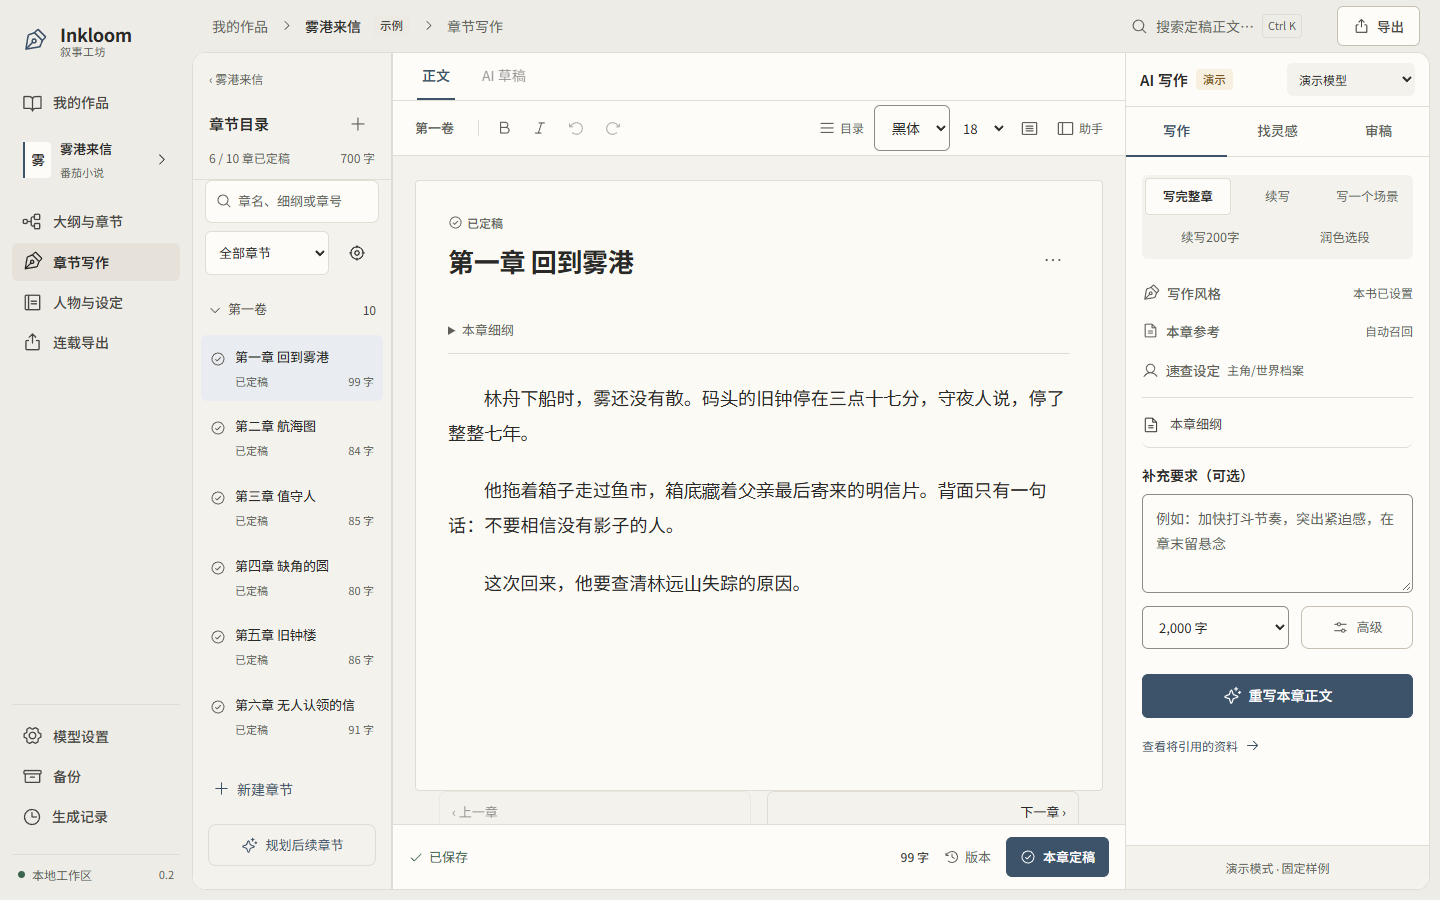
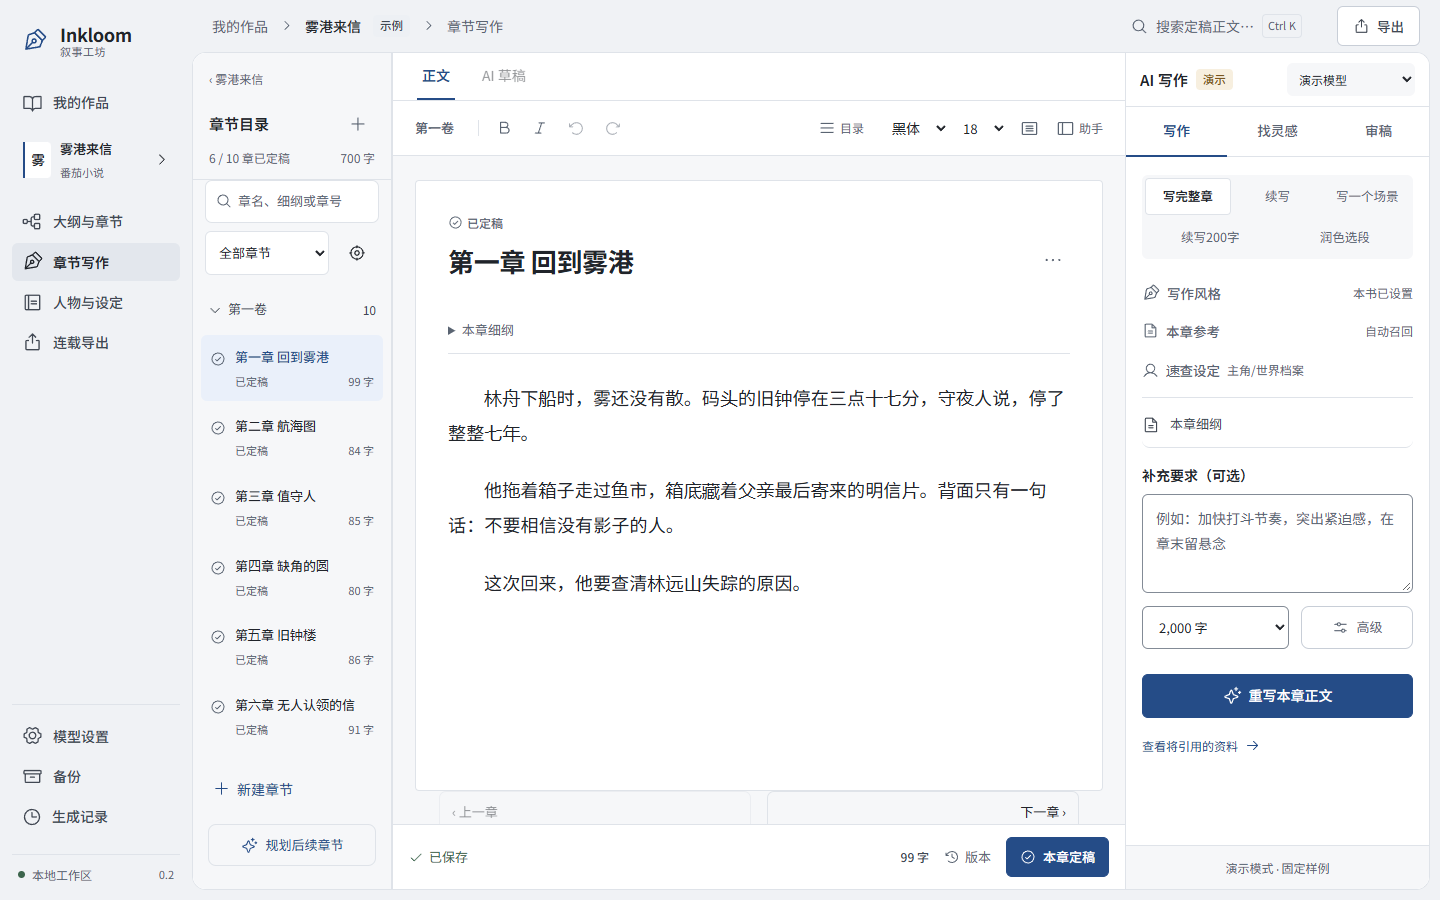
style: 调整 Inkloom 工作台的阅读配色

Changed region(s): [[0.7812, 0.7467, 1.0, 0.8089], [0.6875, 0.9022, 0.7812, 0.9956], [0.1562, 0.3733, 0.2188, 0.4044]]

diff --git a/frontend/src/styles/theme.css b/frontend/src/styles/theme.css
@@ -1,24 +1,24 @@
 :root {
   --font-ui: 'Inkloom UI', -apple-system, BlinkMacSystemFont, 'Segoe UI', 'PingFang SC', 'Hiragino Sans GB', 'Microsoft YaHei UI', 'Microsoft YaHei', sans-serif;
   --font-reading-serif: 'Noto Serif SC', 'Source Han Serif SC', 'Songti SC', 'STSong', 'SimSun', serif;
-  --canvas: #eeece7;
-  --paper: #fdfcf9;
-  --manuscript-paper: #fcfaf5;
-  --surface: #f4f2ed;
-  --hover: #edeae3;
-  --selected: #e6e2da;
-  --line: #e2ddd4;
-  --line-strong: #c7bfb2;
-  --control-line: #8e8b82;
-  --ink: #292927;
-  --ink-secondary: #474642;
-  --muted: #625f58;
+  --canvas: #f0f2f5;
+  --paper: #fff;
+  --manuscript-paper: var(--paper);
+  --surface: #f6f7f9;
+  --hover: #edf0f4;
+  --selected: #e3e7ed;
+  --line: #dfe3e9;
+  --line-strong: #c8ced7;
+  --control-line: #838b96;
+  --ink: #20242a;
+  --ink-secondary: #414853;
+  --muted: #5a6472;
   --muted-light: var(--muted);
-  --accent: #3d5369;
-  --accent-hover: #2e4358;
-  --accent-soft: #e9edf1;
+  --accent: #254c87;
+  --accent-hover: #193b70;
+  --accent-soft: #eaf0fa;
   --on-accent: #fff;
-  --selection: #dbe6ed;
+  --selection: #d9e7fb;
   --success: #3d654d;
   --success-soft: #eaf1e9;
   --success-line: #cddccf;
@@ -28,7 +28,7 @@
   --danger: #9c3f40;
   --danger-soft: #f9eeec;
   --danger-line: #e8c9c4;
-  --overlay: rgb(41 41 39 / 36%);
+  --overlay: rgb(32 36 42 / 36%);
   --radius: 9px;
   --sheet-radius: 14px;
   --card-radius: 8px;

diff --git a/frontend/src/styles/workbench.css b/frontend/src/styles/workbench.css
@@ -494,7 +494,15 @@ input::placeholder, textarea::placeholder {
 .toolbar-label { white-space: nowrap; font-size: 12px; }
 .reading-font { flex: 0 0 76px; }
 .font-size-label { flex: 0 0 54px; }
-.editor-toolbar .reading-font select, .editor-toolbar .font-size-label select { min-height: 44px; width: 100%; }
+.editor-toolbar .reading-font select, .editor-toolbar .font-size-label select {
+  min-height: 44px;
+  width: 100%;
+  border-color: transparent;
+  background: transparent;
+}
+.editor-toolbar .reading-font select:hover, .editor-toolbar .font-size-label select:hover {
+  background: var(--hover);
+}
 .editor-volume {
   font-size: 13px;
   font-weight: 600;
@@ -852,6 +860,7 @@ input::placeholder, textarea::placeholder {
 .chapter-item { padding: 10px 8px; border-radius: 6px; }
 .chapter-item.active { background: var(--accent-soft); }
 .chapter-item-text strong { font-size: 13px; }
+.chapter-item.active .chapter-item-text strong { color: var(--accent); }
 .chapter-item-text small { font-size: 11px; }
 .chapter-state { color: var(--muted); }
 .document-tabs { background: var(--paper); min-height: 44px; }

diff --git a/frontend/index.html b/frontend/index.html
@@ -3,7 +3,7 @@
   <head>
     <meta charset="UTF-8" />
     <meta name="viewport" content="width=device-width, initial-scale=1.0" />
-    <meta name="theme-color" content="#eeece7" />
+    <meta name="theme-color" content="#f0f2f5" />
     <link rel="icon" type="image/svg+xml" href="/src/assets/favicon.svg" />
     <meta name="description" content="Inkloom，从故事想法、全书大纲到章节正文的 AI 长篇小说创作工作台。" />
     <title>Inkloom · AI 小说创作</title>

diff --git a/docs/design/IMPLEMENTATION-PALETTE-2026-11-12.md b/docs/design/IMPLEMENTATION-PALETTE-2026-11-12.md
@@ -1,14 +1,15 @@
 # Inkloom 阅读配色 · 2026-11-12
 
-沿用既有工作台的框架和中文字体。外框使用暖灰，稿纸使用温白，正文使用石墨色。暗蓝灰用于主操作、当前选项和键盘焦点。完成、提醒和错误各有状态色，并与现有文字、图标一起显示。视觉依据为 11 月 8 日的概念图和 Framed sheet 方向（seed `1199054325`）。[工作台概念图](ui-closeout-2026-11-08.png)
+用同一篇演示稿，将浅灰墨蓝、石墨灰两个方案与暖灰首版逐一对照。采用中性浅灰外框与白稿纸，让正文区域在编辑区内更明确。墨蓝标识主操作、当前章和键盘焦点，字体和字号控件统一使用透明底色与淡灰悬停。成功、提醒和错误通过各自的颜色及文字标识。沿用 Framed sheet 方向（seed `1199054325`）。[工作台概念图](ui-closeout-2026-11-08.png) · [实际工作台截图](../screenshots/workbench-desktop.png)
 
 `frontend/src/styles/theme.css` 集中定义颜色变量。书架、目录、规划、助手、设置和对话框复用这些变量。浏览器主题色与工作台外框一致，图标采用主操作色。
 
 | 组合 | 颜色 | 对比度 |
 | --- | --- | --- |
-| 正文 / 稿纸 | `#292927` / `#fcfaf5` | 13.97:1 |
-| 辅助文字 / 外框 | `#625f58` / `#eeece7` | 5.39:1 |
-| 主按钮文字 / 底色 | `#fff` / `#3d5369` | 7.96:1 |
-| 输入框边线 / 背景 | `#8e8b82` / `#fdfcf9` | 3.32:1 |
+| 正文 / 稿纸 | `#20242a` / `#fff` | 15.59:1 |
+| 辅助文字 / 外框 | `#5a6472` / `#f0f2f5` | 5.35:1 |
+| 主按钮文字 / 底色 | `#fff` / `#254c87` | 8.53:1 |
+| 当前章标题 / 底色 | `#254c87` / `#eaf0fa` | 7.45:1 |
+| 输入框边线 / 白色底面 | `#838b96` / `#fff` | 3.44:1 |
 
-通过 TypeScript 检查和 Vite 生产构建。Chrome 在 1440、768、390 px 视口检查书架、写作、规划、人物与设置，并检查手机助手、定稿和模型设置读取失败提示，共 18 个状态。截图使用隔离工作区的演示书稿。检查了页面横向溢出、输入框焦点和 axe 的 WCAG A/AA 规则，所测状态均通过。
+TypeScript 检查和 Vite 生产构建通过。Chrome 在 1440、768、390 px 视口检查书架、写作、规划与设置，并检查手机助手、定稿和模型设置读取失败提示。15 个页面状态均通过横向溢出和 axe WCAG A/AA 检查。另验证字体控件键盘焦点、字体与字号切换。桌面与手机的 2 项 Playwright 编辑器及助手可访问性用例通过。浏览器核查使用隔离演示工作区。

diff --git a/AGENTS.md b/AGENTS.md
@@ -6,7 +6,7 @@
 
 - 2026-11-12 目录整理见 `docs/README.md` 和决策 `0033`。前端按 `features/` 下的工作流程组织组件、局部样式与测试，路由和全局搜索位于 `app/`。实现与复查记录分别位于 `docs/implementation/` 和 `docs/reviews/`。
 
-- 2026-11-12 阅读配色采用暖灰外框、温白稿纸、暗蓝灰操作和独立状态色。颜色变量在 `frontend/src/styles/theme.css`，对比度和浏览器核查见 `docs/design/IMPLEMENTATION-PALETTE-2026-11-12.md`。
+- 2026-11-12 阅读配色采用中性浅灰外框、白稿纸和墨蓝操作。颜色变量在 `frontend/src/styles/theme.css`，对比度和浏览器核查见 `docs/design/IMPLEMENTATION-PALETTE-2026-11-12.md`。
 
 - 2026-11-12 全项目复查见 `docs/reviews/REVIEW-2026-11-12.md` 与决策 `0032`。`useWorkspaceNavigation` 统一异步打开和离页保存，资料刷新失败时保留编辑器。规划目录包含已有手稿的分卷，首章准备在事务内复用，批量细纲采纳重验占位章与续接顺序。`context_sources.py` 按定稿版本批量读取段落，保留资料排序、预算和任务快照契约。当前数据库迁移头为 `1b8c6e431fa7`，真实模型长篇效果仍待验收。
 
